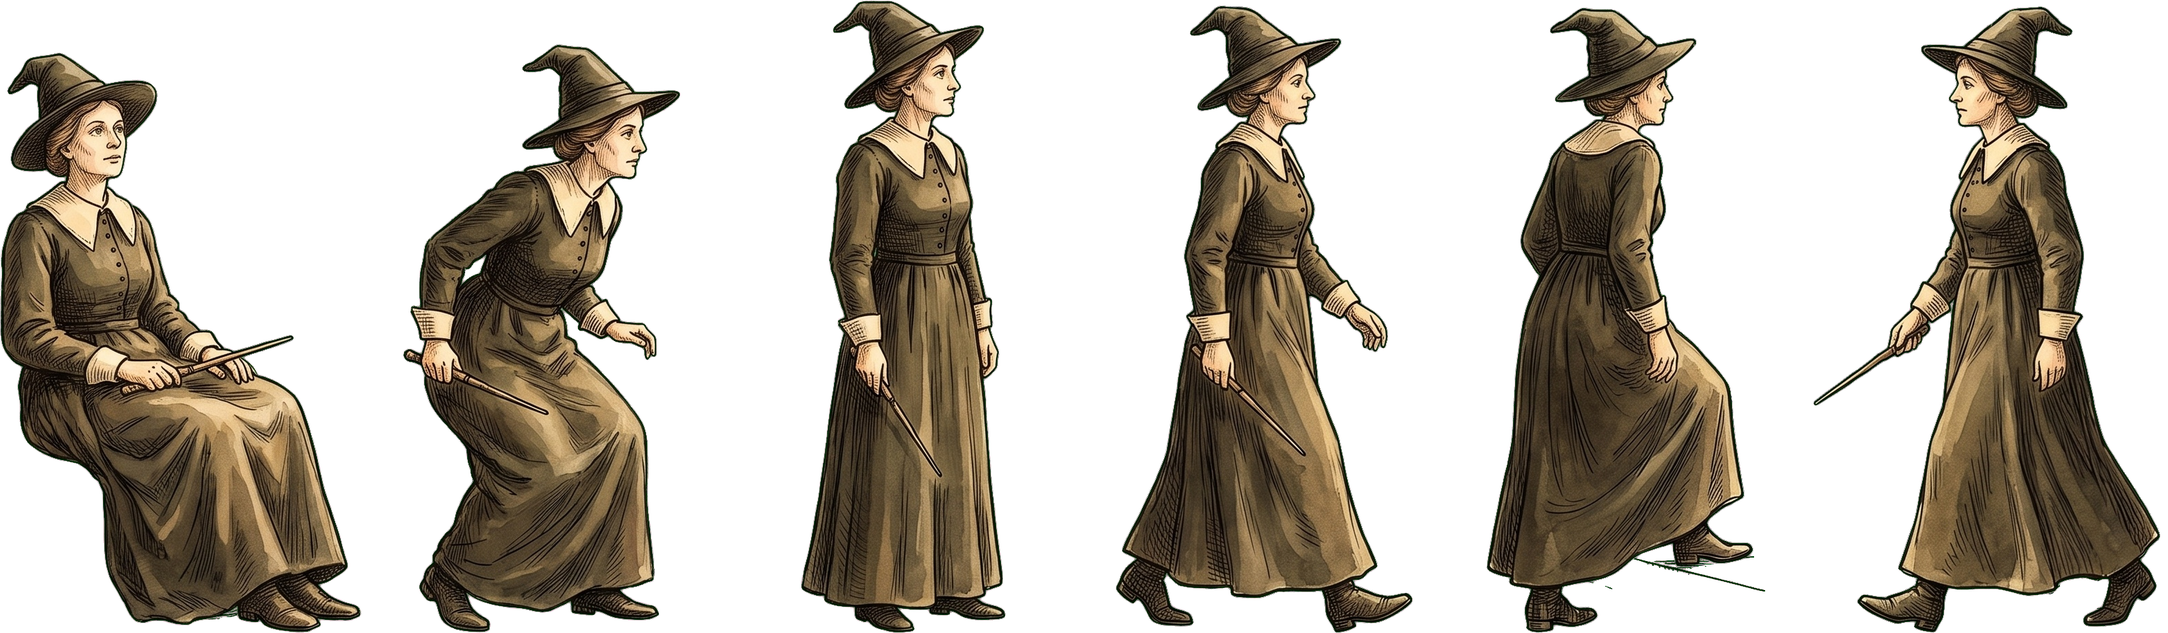
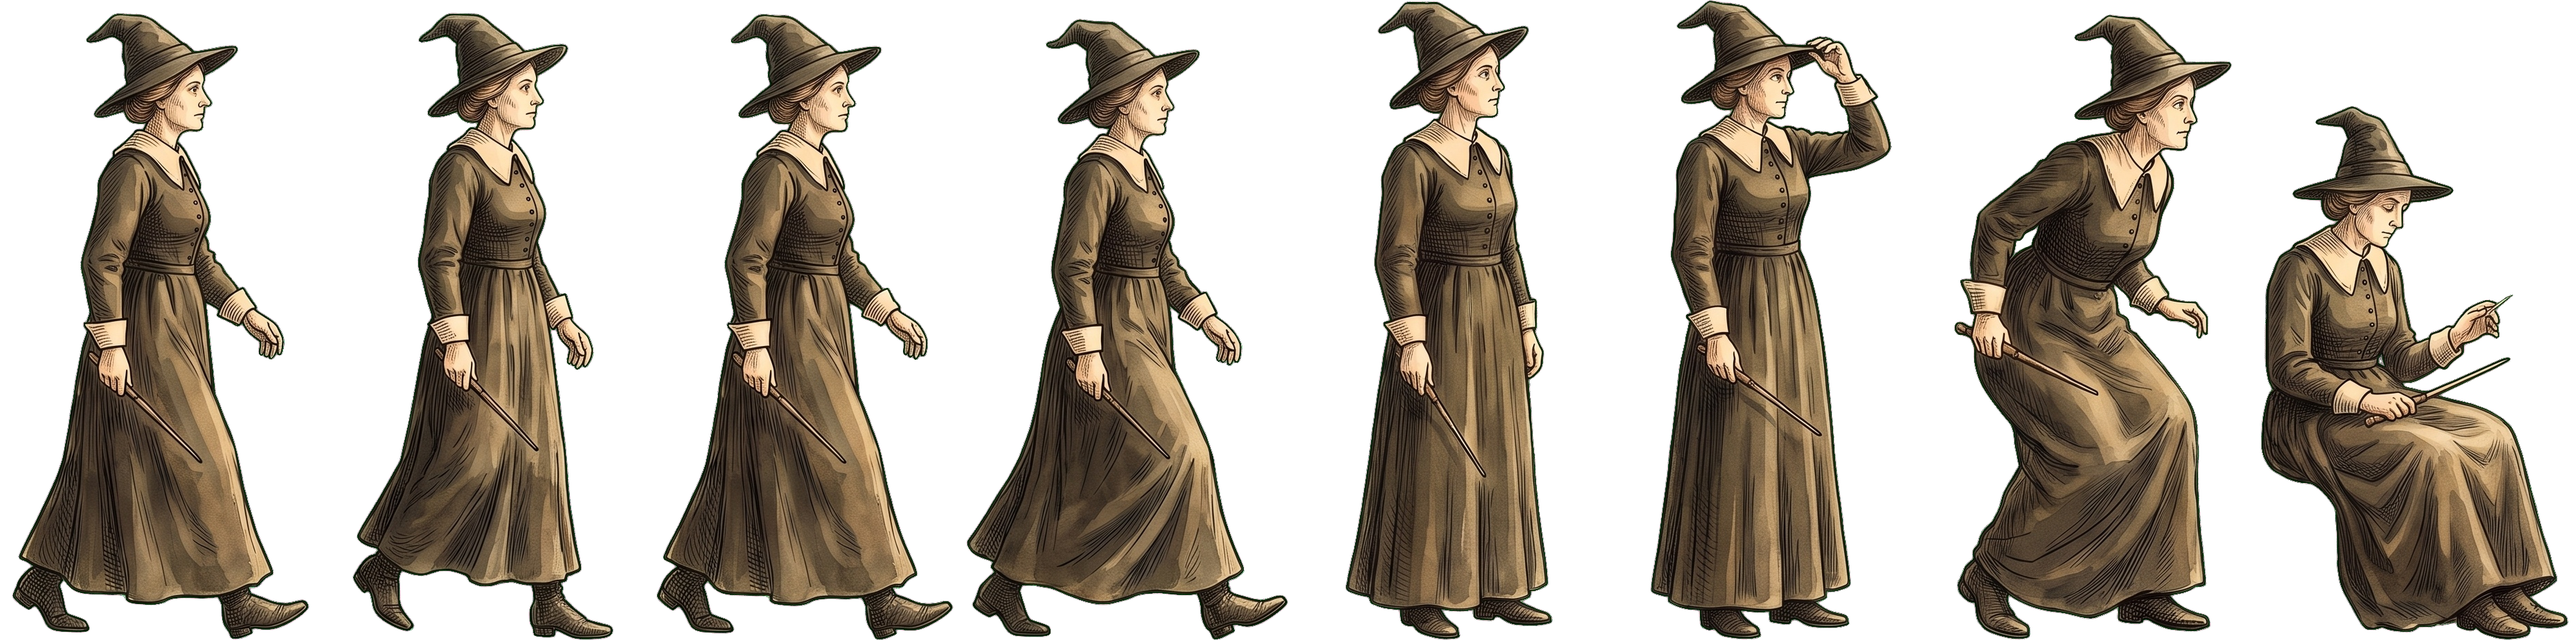
The sitter walks: a real stride, and she settles her hat while waiting
Claude-Session: https://claude.ai/code/session_01HvuRNcPwJo3DQUnMwMNjJu

diff --git a/page/common-room.html b/page/common-room.html
@@ -1283,15 +1283,20 @@ function applyLayer(id, entry) {
 
 var SITTER = {
   url: '../assets/layers/sitter-mantel.png',
-  cols: 6, cellW: 522, cellH: 915,
-  seated: 0, rising: 1, standing: 2, walking: 3, leaving: 4, entering: 5,
-  /* which way each cell is drawn, 1 facing its own right. Read off the sheet:
-     only the last cell, walking back in, was drawn facing left. */
-  native: [1, 1, 1, 1, 1, -1],
+  cols: 8, cellW: 465, cellH: 925,
+  /* Round 2's sheet: four frames of one stride, then the stationary states.
+     She walks back in on flipped walk frames rather than a cell of her own. */
+  walk: [0, 1, 2, 3], standing: 4, hat: 5, rising: 6, seated: 7,
+  /* every cell was drawn facing her own right; the code flips what it needs */
+  native: [1, 1, 1, 1, 1, 1, 1, 1],
   /* where she meets the chair in her seated cell, as a fraction of that cell.
      A seated figure is placed by this and not by her feet, because her feet
      belong to the chair she was drawn on rather than the one she is put in. */
-  seatCell: [0.22, 0.72]
+  seatCell: [0.22, 0.76],
+  /* how far she travels, as a fraction of a picture's width, per four frames.
+     Short, measured steps: the painted rooms are barely a metre and a bit across,
+     so a true stride would cross one in two paces and read as a glide. */
+  strideX: 0.24
 };
 
 /* Per painting: where its painted room is, how big a person is in it, and the
@@ -1373,7 +1378,7 @@ function clearPortrait(p) {
 /* One cell of the sheet, drawn into the painted room and clipped to it. x runs
    across the picture, 0 at its left edge and 1 at its right, and is allowed to
    run outside that, so she is cut by the painted edge on her way through it. */
-function drawSitter(id, cell, x, facing, onChair, bob) {
+function drawSitter(id, cell, x, facing, onChair) {
   var p = portraits[id], s = SCENES[id];
   if (!p || !sitterSheet) return;
   var r = p.rect;
@@ -1389,10 +1394,6 @@ function drawSitter(id, cell, x, facing, onChair, bob) {
   } else {
     left = r.x + x * r.w - dw / 2;
     top = r.y + s.footY * r.h - dh;
-    /* The sheet holds one walking cell, not a stride, so her legs cannot move
-       and she would slide. A walker's rise and fall, twice a stride, is what
-       reads at this size; a second walking frame is the real fix. */
-    if (bob) top -= Math.abs(Math.sin(bob)) * 0.012 * dh;
   }
   var ctx = p.ctx;
   ctx.save();
@@ -1415,7 +1416,7 @@ function drawSitter(id, cell, x, facing, onChair, bob) {
 var sitter = {
   where: 'portrait-mantel', phase: 'seated', t: (90 + Math.random() * 90) / (/[?&]fast(=|&|$)/.test(location.search) ? 14 : 1),
   x: SCENES['portrait-mantel'].seatX, cell: SITTER.seated,
-  facing: -1, dirty: true, lastX: null, dist: 0
+  facing: -1, dirty: true, lastX: null, dist: 0, idle: 0
 };
 
 /* Add ?fast to the page's address to run her cycle in seconds rather than
@@ -1430,7 +1431,7 @@ function sitterEnter(id) {
   sitter.where = id;
   sitter.phase = 'entering';
   sitter.x = s.exitX;
-  sitter.cell = SITTER.entering;
+  sitter.dist = 0;
   sitter.facing = -s.facesOut;
   sitter.speed = Math.abs(s.seatX - s.exitX) / cross(4.5, 7);
   sitter.dirty = true;
@@ -1440,6 +1441,12 @@ function sitterEnter(id) {
    that happens rather than a trick that repeats. */
 function sitterNextFrame() {
   return Math.random() < 0.65 ? 'portrait-mantel' : 'portrait-right';
+}
+
+/* Which frame of the stride she is on, from how far she has walked. */
+function walkFrame(dist) {
+  var n = SITTER.walk.length;
+  return SITTER.walk[((Math.floor(dist / SITTER.strideX * n) % n) + n) % n];
 }
 
 function reached(from, to, x) {
@@ -1456,27 +1463,39 @@ function updateSitters(dt) {
   } else if (st.phase === 'entering') {
     st.x += (sc.seatX > sc.exitX ? 1 : -1) * st.speed * dt;
     st.dist += st.speed * dt;
+    st.cell = walkFrame(st.dist);
     if (reached(sc.exitX, sc.seatX, st.x)) {
       st.x = sc.seatX;
       st.facing = sc.facesOut;
       if (sc.sits) { st.phase = 'seated'; st.cell = SITTER.seated; st.t = dwell(60, 200); st.facing = -1; }
-      else { st.phase = 'standing'; st.cell = SITTER.standing; st.t = dwell(25, 90); }
+      else { st.phase = 'standing'; st.cell = SITTER.standing; st.t = dwell(25, 90); st.idle = dwell(6, 15); }
     }
     st.dirty = true;
 
   } else if (st.phase === 'seated' || st.phase === 'standing') {
+    /* Standing still, she settles her hat now and then. One small thing a person
+       does while waiting is what keeps a still figure from reading as a statue. */
+    if (st.phase === 'standing') {
+      st.idle -= dt;
+      if (st.idle <= 0) {
+        var wasHat = (st.cell === SITTER.hat);
+        st.cell = wasHat ? SITTER.standing : SITTER.hat;
+        st.idle = wasHat ? dwell(6, 15) : dwell(1.2, 2.2);
+        st.dirty = true;
+      }
+    }
     if (st.t <= 0) {
       if (st.phase === 'seated') {
         st.phase = 'rising'; st.cell = SITTER.rising; st.t = dwell(0.7, 1.3);
         st.x = sc.risingX; st.facing = sc.facesOut;
       }
-      else { st.phase = 'walking'; st.cell = SITTER.walking; st.speed = Math.abs(sc.exitX - sc.seatX) / cross(4, 7); }
+      else { st.phase = 'walking'; st.dist = 0; st.speed = Math.abs(sc.exitX - sc.seatX) / cross(4, 7); }
       st.dirty = true;
     }
 
   } else if (st.phase === 'rising') {
     if (st.t <= 0) {
-      st.phase = 'walking'; st.cell = SITTER.walking;
+      st.phase = 'walking'; st.dist = 0;
       st.speed = Math.abs(sc.exitX - sc.seatX) / cross(4, 7);
       st.dirty = true;
     }
@@ -1485,9 +1504,10 @@ function updateSitters(dt) {
     st.facing = sc.facesOut;
     st.x += sc.facesOut * st.speed * dt;
     st.dist += st.speed * dt;
+    st.cell = walkFrame(st.dist);
     st.dirty = true;
     if (reached(sc.seatX, sc.exitX, st.x)) {
-      st.phase = 'leaving'; st.cell = SITTER.leaving; st.t = dwell(0.5, 1.1);
+      st.phase = 'leaving'; st.t = dwell(0.5, 1.1);
     }
 
   } else if (st.phase === 'leaving') {
@@ -1504,9 +1524,7 @@ function updateSitters(dt) {
     var hasHer = (st.where === id && st.phase !== 'away');
     if (!hasHer && !p.drawn) continue;
     clearPortrait(p);
-    var walking = (st.phase === 'walking' || st.phase === 'entering');
-    if (hasHer) drawSitter(id, st.cell, st.x, st.facing, st.phase === 'seated',
-                           walking ? st.dist * 26 : 0);
+    if (hasHer) drawSitter(id, st.cell, st.x, st.facing, st.phase === 'seated');
     p.drawn = hasHer;
     p.tex.needsUpdate = true;
   }
